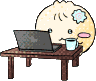
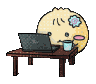
feat(web): 개발자 도트 그림을 새 그림으로 바꾼다 — 선을 굵혀 줄여도 테두리가 남게 · 태그 크기 = 실제 PNG 크기 시험
- apps/web/public/crew/dev.png: 사용자가 다시 준 그림(538×472)을 96×84 · 48색 도트로(줄이기 전 검은 선을 한 칸 굵힘)
- apps/web/src/pages/home/ui/Hero.tsx: height 81 → 84
- apps/web/tests/prerender.test.tsx: 태그 크기 · PNG 머리의 가로 · 세로가 96×84

diff --git a/apps/web/tests/prerender.test.tsx b/apps/web/tests/prerender.test.tsx
@@ -43,7 +43,7 @@ describe('미리 그린 페이지', () => {
       expect(html).toContain(m.newsEmpty);
       // 소식 창 아래 개발자 도트 그림 — 파일 크기 그대로(두 배는 CSS) · 언어별 대체 글
       expect(html).toContain(
-        `<img class="crew" src="/crew/dev.png" width="96" height="81" alt="${m.crewDevAlt}"/>`,
+        `<img class="crew" src="/crew/dev.png" width="96" height="84" alt="${m.crewDevAlt}"/>`,
       );
       expect(html).toContain(`<link rel="canonical" href="${SITE_ORIGIN}${pathFor(lang)}"/>`);
       expect(html).not.toMatch(/%TW_LANG%|<!--tw-head-->|<!--tw-body-->/);
@@ -96,6 +96,11 @@ describe('미리 그린 페이지', () => {
       `<img class="feat-shot" src="${first.src}" width="${first.w}" height="${first.h}"`,
     );
     expect(body.match(/class="feat-shot"/g)).toHaveLength(1);
+  });
+
+  it('개발자 도트 그림 — 태그의 width · height 가 실제 PNG 크기', () => {
+    const png = readFileSync(new URL('../public/crew/dev.png', import.meta.url));
+    expect({ w: png.readUInt32BE(16), h: png.readUInt32BE(20) }).toEqual({ w: 96, h: 84 });
   });
 
   it('내려받기 단추는 주소가 생기기 전까지 눌리지 않는다', () => {

diff --git a/apps/web/src/pages/home/ui/Hero.tsx b/apps/web/src/pages/home/ui/Hero.tsx
@@ -27,7 +27,7 @@ export function Hero() {
         </div>
         <div className="hero-side">
           <NewsSlot />
-          <img className="crew" src="/crew/dev.png" width={96} height={81} alt={m.crewDevAlt} />
+          <img className="crew" src="/crew/dev.png" width={96} height={84} alt={m.crewDevAlt} />
         </div>
       </div>
     </section>
